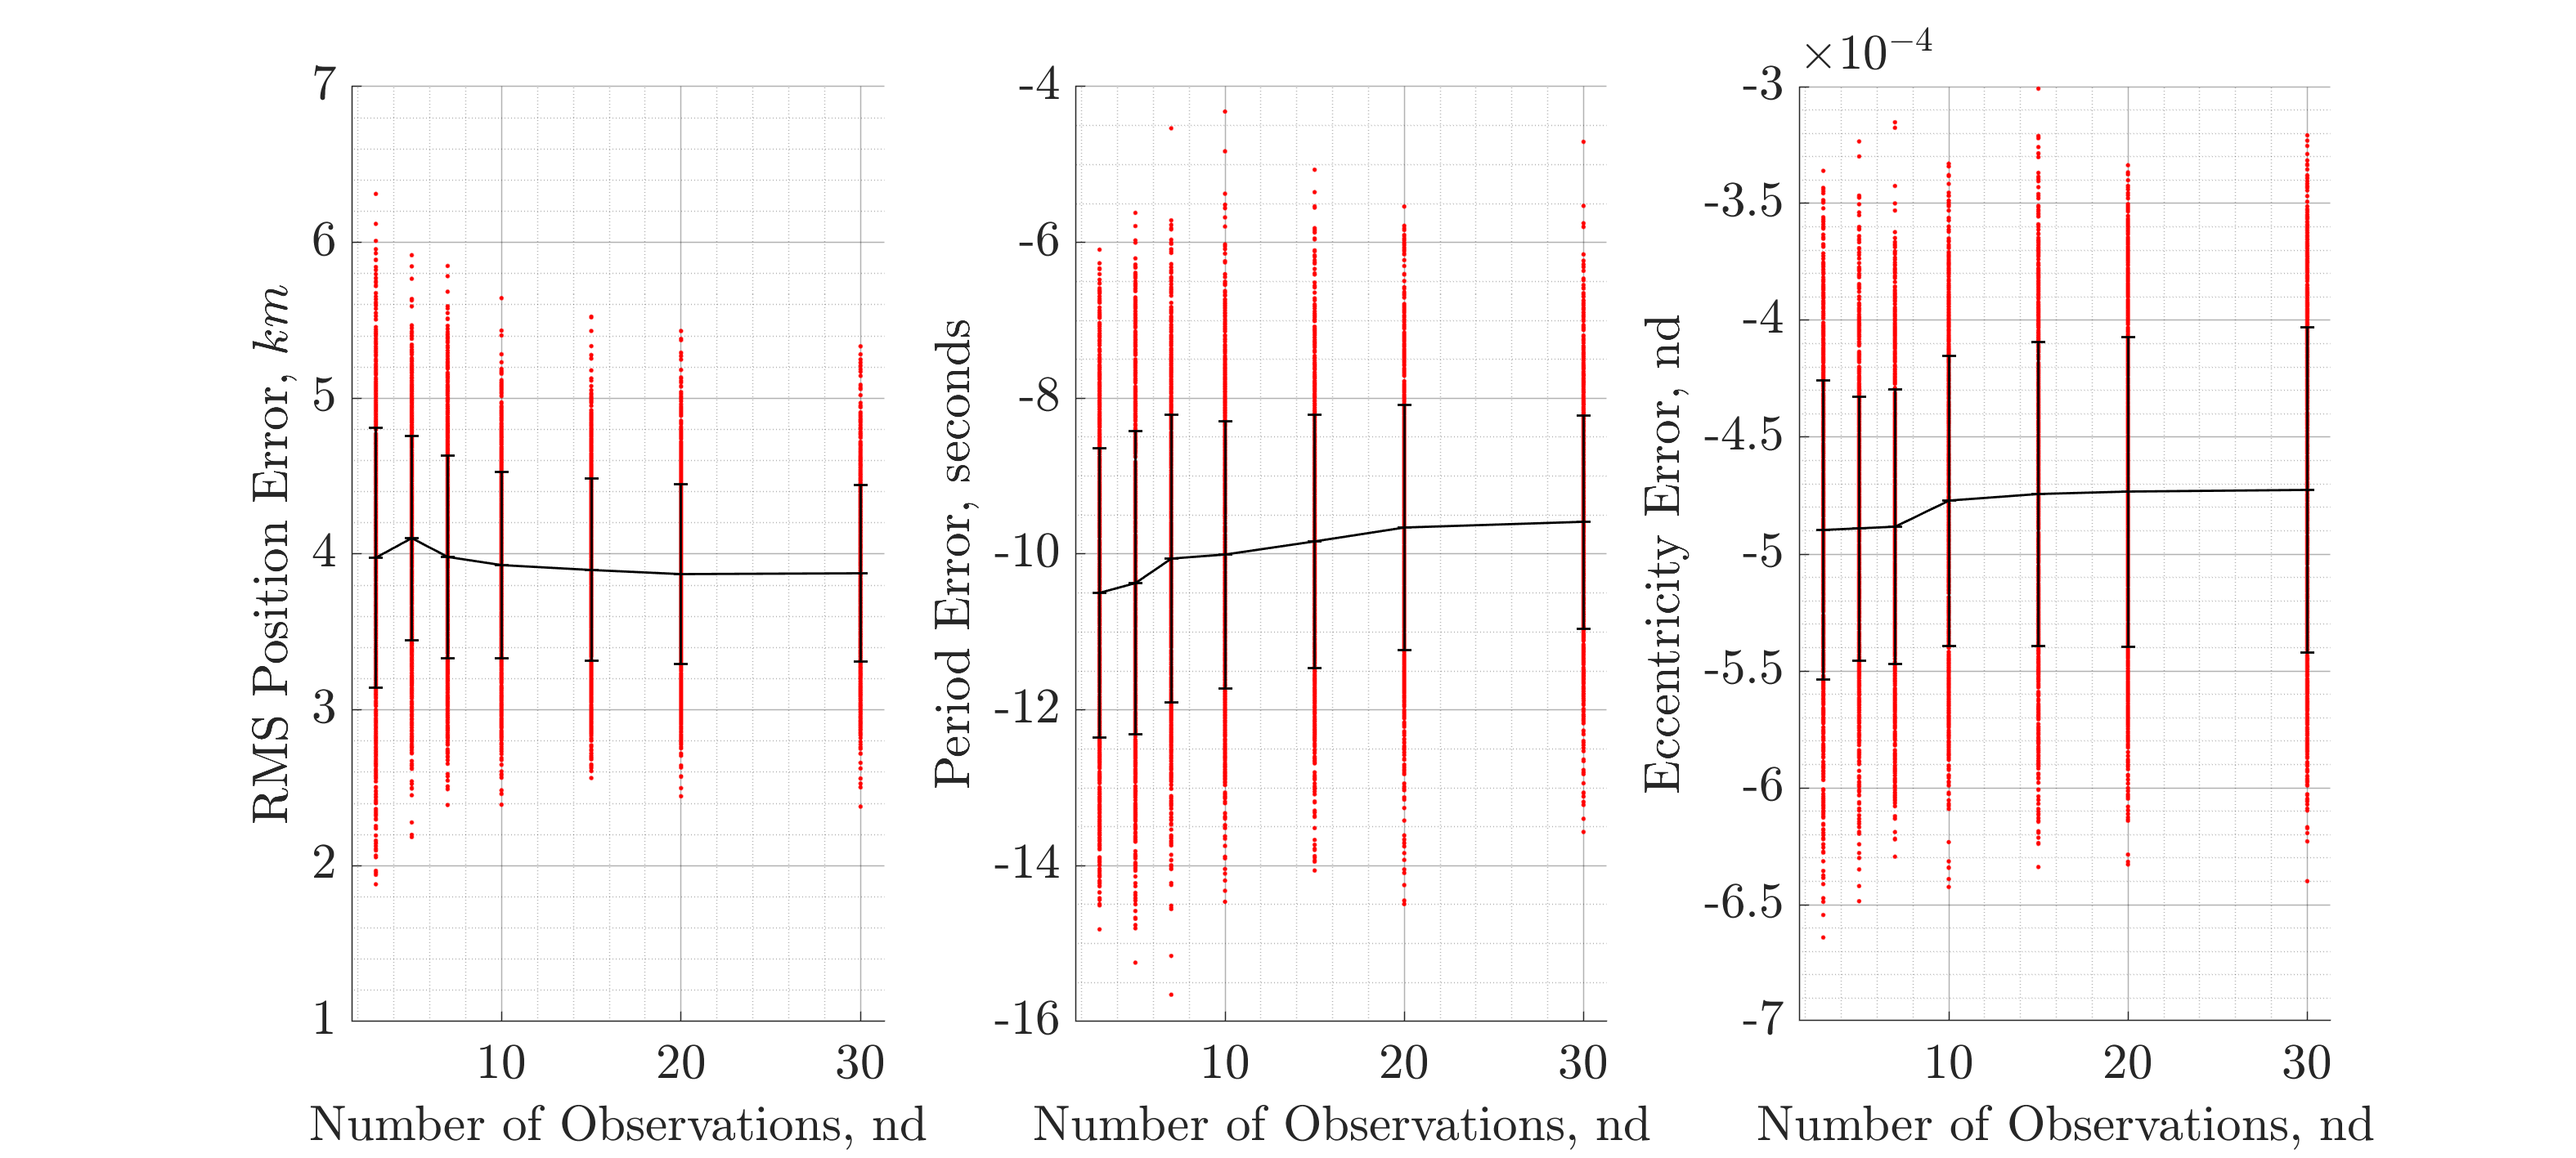
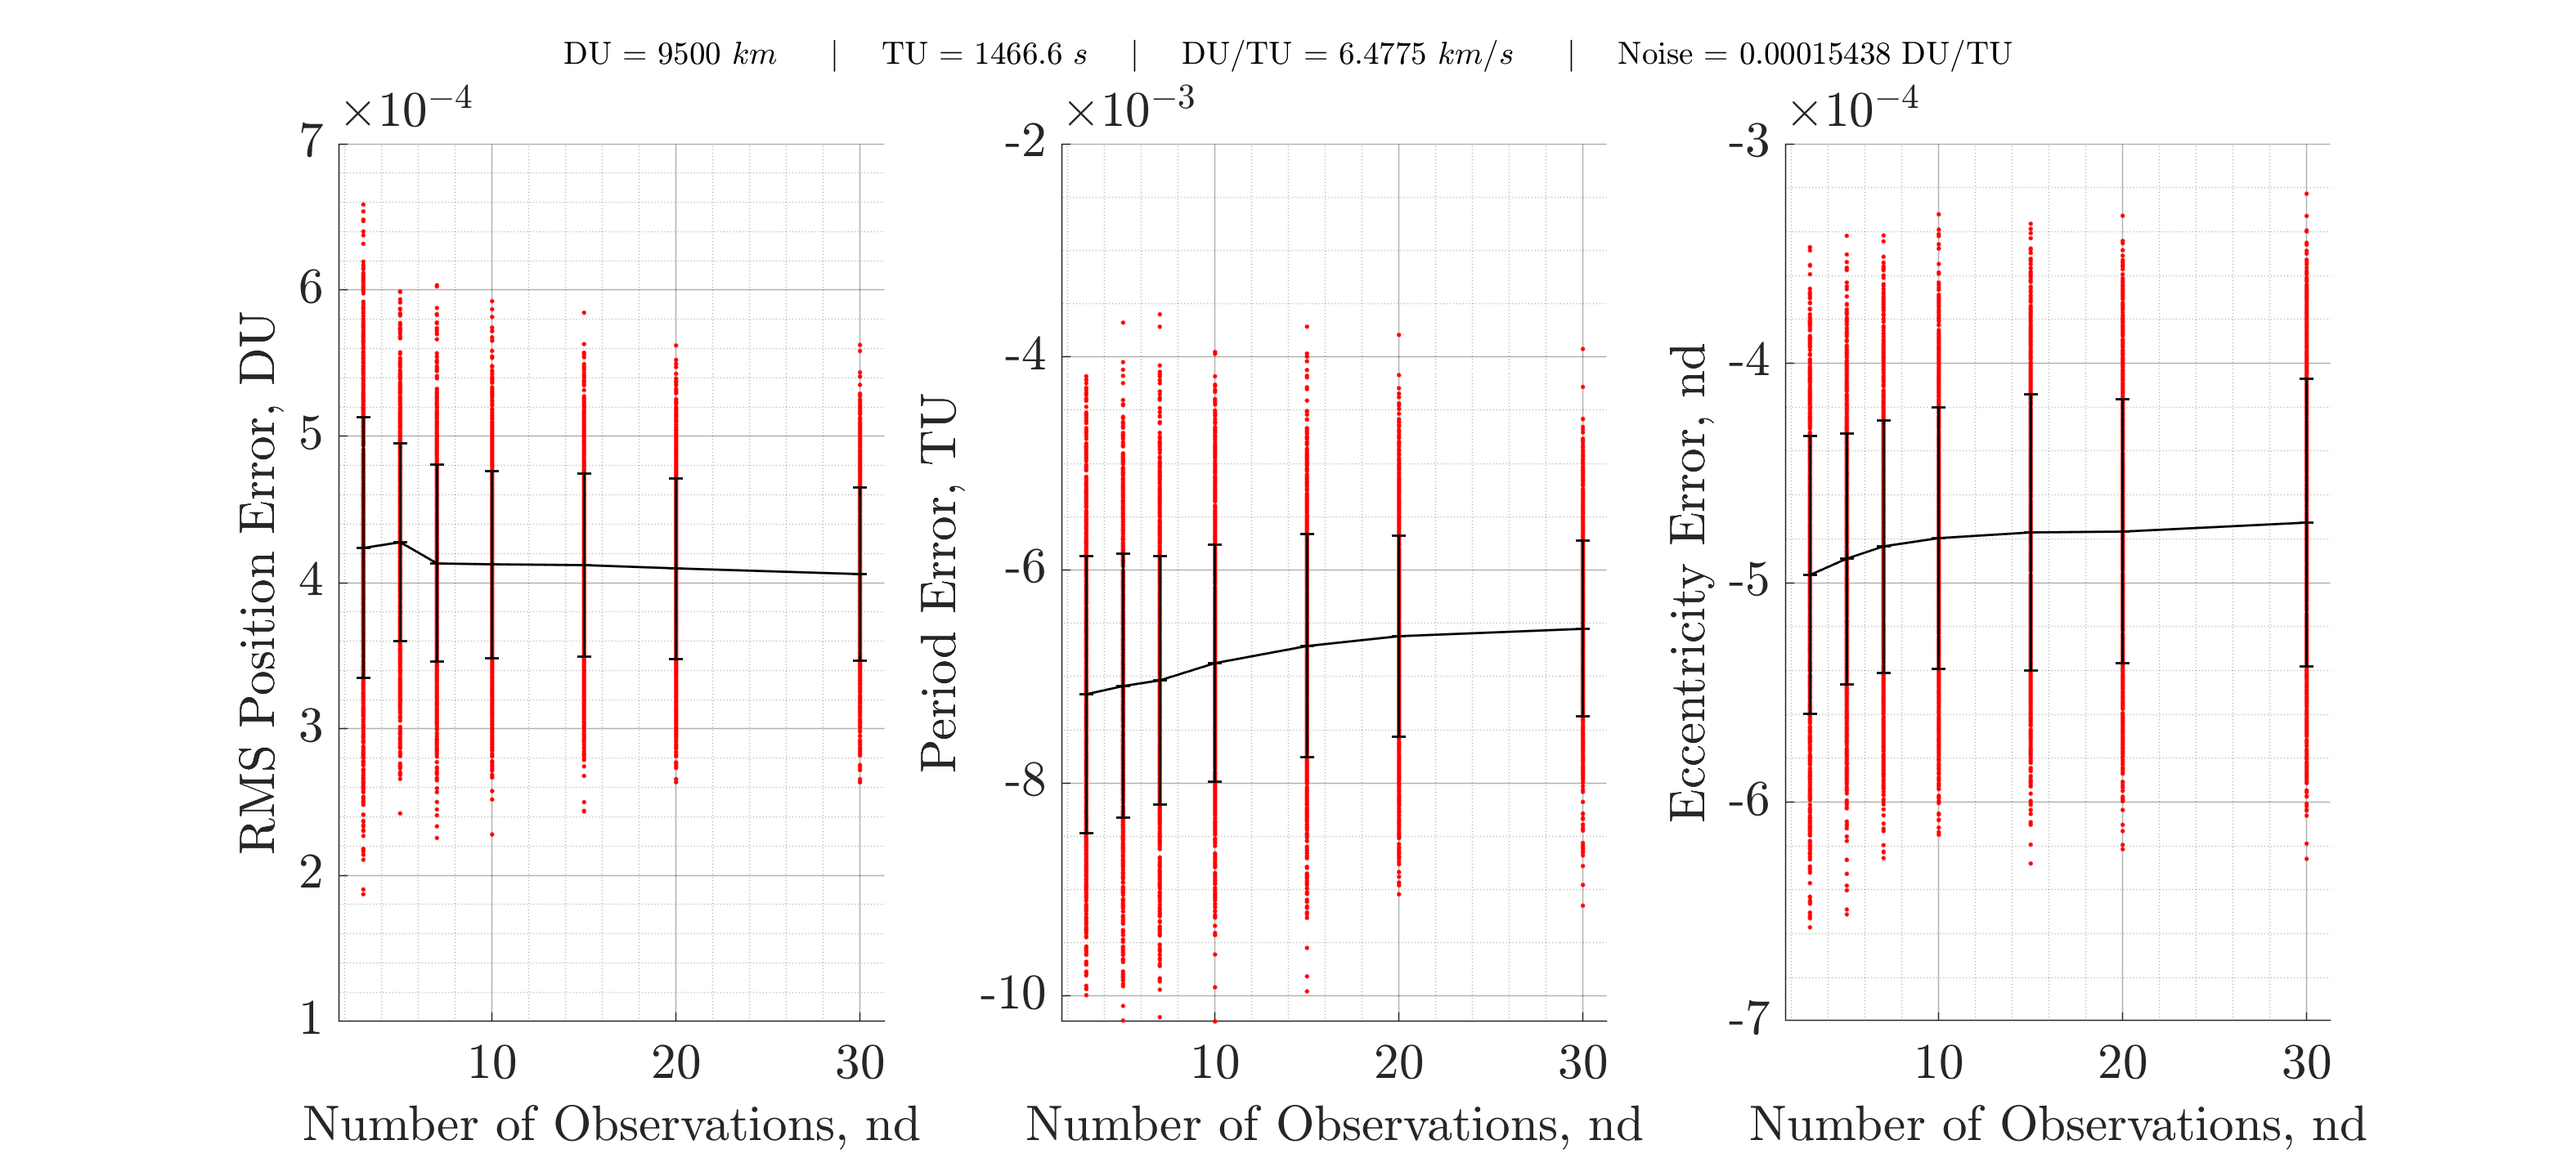
Update VIOD canonical sims and figures; update RROD with new eccentricity error metric

diff --git a/viod_dev/Misc Testing/range_rate/rrFun_sine.m b/viod_dev/Misc Testing/range_rate/rrFun_sine.m
@@ -48,6 +48,7 @@ angles = linspace(-pi/2,pi/2,numHodoPoints);
 rrFromSine = nan(M,numHodoPoints);
 
 % fit range-rate and true anomaly data to sine waves for each pulsar
+eErr = 0;
 for i = 1:M
     % find number of observations for this pulsar
     N = sum(~isnan(obsv(i,:)));
@@ -62,6 +63,9 @@ for i = 1:M
     pha = atan(x(2)/x(1)); % phase
     amp = x(2) / sin(pha); % amplitude
     off = x(3);            % offset
+%     eErr = eErr + abs( (abs(amp)+off)/(abs(amp)-off)...
+%                       -sin(pha+pi/2-asin(g_e*sin(pha+pi/2))) / ...
+%                        sin(pha+pi/2+asin(g_e*sin(pha+pi/2))) ) / 100;
     % get points on the sine wave to use later to define hodograph
     rrFromSine(i,:) = amp * sin(angles-pha) + off;
     % debugging
@@ -93,14 +97,45 @@ for k = 1:numHodoPoints
     hodoPoints(:,k) = A\b;
 end
 
-% use singular value decomposition to find hodograph plane normal
-[~,~,V] = svd(hodoPoints',0);
-normal = V(:,end);
-% --- check if the sign is correct by comparing against cross product of
-% velocities at f = -90 and f = 0
-if normal'*cross(hodoPoints(:,1),hodoPoints(:,2)) < 0
-    normal = -normal;
-end
+% if exist('debug','var')
+%     figure(9)
+%     scatter3(hodoPoints(1,:),hodoPoints(2,:),hodoPoints(3,:))
+%     axis equal
+% end
+
+%     % here, we have a problem: the circle found by sine waves may not all
+%     % contain the origin, which is required for the hodograph
+%     % for now, we will simply shift the circle.
+%     % --- use vectors from adjacent points on circle to find normal
+%     hodoAdj = hodoPoints(:,2:end) - hodoPoints(:,1:end-1);
+%     [~,~,V] = svd(hodoAdj',0);
+%     normal = V(:,end);
+%     % --- check if the sign is correct by comparing against cross product of
+%     % adjacent vectors in hodoAdj
+%     if normal'*cross(hodoAdj(:,1),hodoAdj(:,2)) < 0
+%         normal = -normal;
+%     end
+%     % --- now, we will offset hodoPoints along the normal
+%     offset = mean(normal'*hodoPoints);
+%     hodoPoints = hodoPoints - offset;
+
+    % use singular value decomposition to find hodograph plane normal
+    [~,~,V] = svd(hodoPoints',0);
+    normal = V(:,end);
+    % --- check if the sign is correct by comparing against cross product of
+    % velocities at adjecent true anomalies
+    if normal'*cross(hodoPoints(:,1),hodoPoints(:,2)) < 0
+        normal = -normal;
+    end
+
+% if exist('debug','var')
+%     figure(10)
+%     scatter3(hodoPoints(1,:),hodoPoints(2,:),hodoPoints(3,:))
+%     hold on
+%     quiver3(0,0,0,normal(1),normal(2),normal(3))
+%     hold off
+%     axis equal
+% end
 
 % find the transformation matrix to bring the hodograph points to 2D
 u1 = hodoPoints(:,1) / norm(hodoPoints(:,1));
@@ -110,6 +145,11 @@ T = [u1';u2';normal'];
 % transform hodograph points to 2D, then fit circle
 hodo2D = T * hodoPoints; % third row should be zero
 [C,R,residual] = fitcircle(hodo2D(1:2,:));
+if exist('debug','var')
+    figure(11)
+    scatter3(hodo2D(1,:),hodo2D(2,:),hodo2D(3,:))
+    axis equal
+end
 
 % convert hodograph center back to 3D
 C = T' * [C;0];
@@ -135,8 +175,8 @@ else
 end
 
 % finalizing outputs
-optDiff = [e,period,residual] - [g_e,g_period,0];
-weight = [50 1 10];
+optDiff = [e,period,residual+eErr] - [g_e,g_period,0];
+weight = [50 1 20];
 scale = 100;
 optDiff = optDiff .* weight / norm(weight) * scale;
 optOut  = [e,period,g_timepe];

diff --git a/viod_dev/Misc Testing/range_rate/test_sine.m b/viod_dev/Misc Testing/range_rate/test_sine.m
@@ -16,8 +16,8 @@ period = 2*pi * sqrt(a^3/mu);
 t_offset = mod(t_offset,period);
 
 % define pulsars
-P = [0 1 1;... % pulsar 1
-     1 1 1;... % pulsar 2
+P = [1 1 1;... % pulsar 1
+     0 1 1;... % pulsar 2
      3 1 2]';  % pulsar 3
 P = P ./ vecnorm(P,2,1);
 
@@ -54,13 +54,18 @@ end
 
 % visualize range rate
 figure(1)
-scatter(f(:),obsv(:))
+for i = 1:size(obsv,2)
+    plot(f(i,:),obsv(i,:),'-o')
+    hold on
+end
+hold off
 
 % calculate perfect inputs
 OPT = [e,period,t_offset];
 
 % check if perfect input yields perfect output
-[optDiff,V] = rrFun_sine(OPT,obsv,pulsar,mu,t)
+[optDiff,V] = rrFun_sine(OPT,obsv,pulsar,mu,t,'debug');
+optDiff
 
 %% global search
 
@@ -145,25 +150,23 @@ disp('Searching for solution...')
 f1 = f0;
 
 fun = @(x) norm(rrFun_sine(x,obsv,pulsar,mu,t));
-options = optimoptions('fmincon','Display','final' ...
+options = optimoptions('fmincon','Display','iter' ...
                                 ,'MaxFunctionEvaluations',2000 ...
-                                ,'MaxIterations',300 ...
-                                ,'StepTolerance',1e-9 ...
-                                ,'FunctionTolerance',1e-9);
+                                ,'MaxIterations',300);
 f1 = fmincon(fun,f0,-eye(3),[0;0;0],[],[],[],[],[],options);
 
 fun = @(x) rrFun_sine(x,obsv,pulsar,mu,t);
 options = optimoptions('fsolve','Display','iter' ...
                                ,'MaxFunctionEvaluations',2000 ...
-                               ,'MaxIterations',300 ...
-                               ,'StepTolerance',1e-9 ...
-                               ,'FunctionTolerance',1e-9);
+                               ,'MaxIterations',300);
 g_opt = fsolve(fun,f1,options);
 
 soln_opt = g_opt;
-soln_opt(3) = mod(g_opt(3),g_opt(2))
+soln_opt(3) = mod(g_opt(3),g_opt(2));
 
 [optDiff,V,optOut] = rrFun_sine(soln_opt,obsv,pulsar,mu,t,'debug');
+
+optOut
 
 toc
 

diff --git a/viod_gmat/scripts_matlab/canonical/var_obsv.m b/viod_gmat/scripts_matlab/canonical/var_obsv.m
@@ -1,4 +1,4 @@
-function var_obsv(V,mu,noise,num_monte,num_obsv,pos_ref,period_ref,ecc_ref)
+function var_obsv(DU,TU,noise,V,mu,num_monte,num_obsv,pos_ref,period_ref,ecc_ref)
 %VAR_OBSV Plots error statistics for VIOD w.r.t number of observations.
 %
 % Author:
@@ -9,7 +9,9 @@ function var_obsv(V,mu,noise,num_monte,num_obsv,pos_ref,period_ref,ecc_ref)
 persistent rms period ecc obsv_mat
 
 %% data collection mode
-if nargin == 8
+if nargin == 10
+    
+    noise = noise / DU * TU;
     
     rms_temp = nan(num_monte,1);
     period_temp = nan(num_monte,1);
@@ -41,7 +43,7 @@ if nargin == 8
     return;
     
 %% data plotting mode
-else
+elseif nargin == 3
     
     obsv = obsv_mat(1,:);
     
@@ -61,7 +63,7 @@ else
     errorbar(obsv,mean(rms),std(rms),errFormat,'LineWidth',linewidth)
     hold off
     xlabel('Number of Observations, nd')
-    ylabel('RMS Position Error, $km$')
+    ylabel('RMS Position Error, DU')
     xlim(lim_x)
     setgrid
 
@@ -71,7 +73,7 @@ else
     errorbar(obsv,mean(period),std(period),errFormat,'LineWidth',linewidth)
     hold off
     xlabel('Number of Observations, nd')
-    ylabel('Period Error, seconds')
+    ylabel('Period Error, TU')
     xlim(lim_x)
     setgrid
 
@@ -87,8 +89,16 @@ else
     
     latexify(40,18,22)
     
+    sgtitle(['DU = ' num2str(DU,5) ' $km$ \hspace{1em} $\mid$ \hspace{1em}',...
+             'TU = ' num2str(TU,5) ' $s$ \hspace{1em}$\mid$ \hspace{1em}',...
+             'DU/TU = ' num2str(DU/TU,5) ' $km/s$ \hspace{1em} $\mid$ \hspace{1em}',...
+             'Noise = ' num2str(noise/DU*TU/1000,5) ' DU/TU'])
+    
     % clean up persistent variables
     clear rms period ecc obsv_mat
+    
+else
+    error('Incorrect number of arguments.')
 
 end
 

diff --git a/viod_gmat/scripts_matlab/canonical/var_ecc.m b/viod_gmat/scripts_matlab/canonical/var_ecc.m
@@ -1,4 +1,4 @@
-function var_ecc(DU,TU,V,mu,noise,num_monte,pos_ref,period_ref,ecc_ref)
+function var_ecc(DU,TU,noise,V,mu,num_monte,pos_ref,period_ref,ecc_ref)
 %VAR_ECC Plots error statistics for VIOD w.r.t eccentricity.
 %
 % Author:
@@ -43,7 +43,7 @@ if nargin == 9
     return;
     
 %% data plotting mode
-elseif nargin == 2
+elseif nargin == 3
     
     ecc_vect = ecc_mat(1,:);
     
@@ -89,9 +89,10 @@ elseif nargin == 2
     
     latexify(40,18,22)
     
-    sgtitle(['DU = ' num2str(DU) ' $km$,  ',...
-             'TU = ' num2str(TU) ' $s$,  ',...
-             'DU/TU = ' num2str(DU/TU) ' km/s'])
+    sgtitle(['DU = ' num2str(DU,5) ' $km$ \hspace{1em} $\mid$ \hspace{1em}',...
+             'TU = ' num2str(TU,5) ' $s$ \hspace{1em}$\mid$ \hspace{1em}',...
+             'DU/TU = ' num2str(DU/TU,5) ' $km/s$ \hspace{1em} $\mid$ \hspace{1em}',...
+             'Noise = ' num2str(noise/DU*TU/1000,5) ' DU/TU'])
     
     % clean up persistent variables
     clear rms period ecc ecc_mat

diff --git a/viod_dev/Misc Testing/range_rate/test_3d.m b/viod_dev/Misc Testing/range_rate/test_3d.m
@@ -3,11 +3,10 @@ clear;clc
 
 mu = 1;
 a = 1;
-e = 0.8;
+e = 0.6;
 i = pi/5;
 omg = 3*pi/2;
 w = pi/3;
-
 params = [a e i omg w 0];
 
 % define pulsars
@@ -17,7 +16,7 @@ P = [0 1 1;... % pulsar 1
 P = P ./ vecnorm(P,2,1);
 
 % calculate true position and velocity values
-f = deg2rad([0 10 20 40 60 70 80]);
+f = deg2rad([0 10 20 40 50 60 80]);
 E = 2 * atan(sqrt((1-e)/(1+e))*tan(f/2));
 M = E - e*sin(E);
 t = sqrt(a^3/mu)*M;

diff --git a/viod_gmat/scripts_matlab/canonical/var_noise.m b/viod_gmat/scripts_matlab/canonical/var_noise.m
@@ -84,8 +84,8 @@ setgrid
     
 latexify(40,18,22)
 
-sgtitle(['DU = ' num2str(DU) ' $km$,  ',...
-         'TU = ' num2str(TU) ' $s$,  ',...
-         'DU/TU = ' num2str(DU/TU) ' km/s'])
+sgtitle(['DU = ' num2str(DU,5) ' $km$ \hspace{1em} $\mid$ \hspace{1em}',...
+             'TU = ' num2str(TU,5) ' $s$ \hspace{1em}$\mid$ \hspace{1em}',...
+             'DU/TU = ' num2str(DU/TU,5) ' $km/s$'])
 
 end

diff --git a/viod_gmat/init.m b/viod_gmat/init.m
@@ -20,4 +20,6 @@ clear;clc
 addpath(['.' filesep 'od']);
 addpath(['.' filesep 'misc']);
 addpath(['.' filesep 'scripts_gmat'])
+addpath(['.' filesep 'scripts_gmat\canonical'])
 addpath(['.' filesep 'scripts_matlab'])
+addpath(['.' filesep 'scripts_matlab\canonical'])

diff --git a/viod_dev/Misc Testing/range_rate/rrFun_ta.m b/viod_dev/Misc Testing/range_rate/rrFun_ta.m
@@ -59,7 +59,6 @@ cy = c_vect(2);
 
 % find the intercept of the first range-rate measurement to get starting TA
 % --- calculate perpendicular line
-
 P1 = obsv(1) * pulsar(:,1) * norm(pulsar(:,1))^2 / norm(pulsar(1:2,1))^2;
 P2 = P1 + cross([0;0;1],P1);
 
